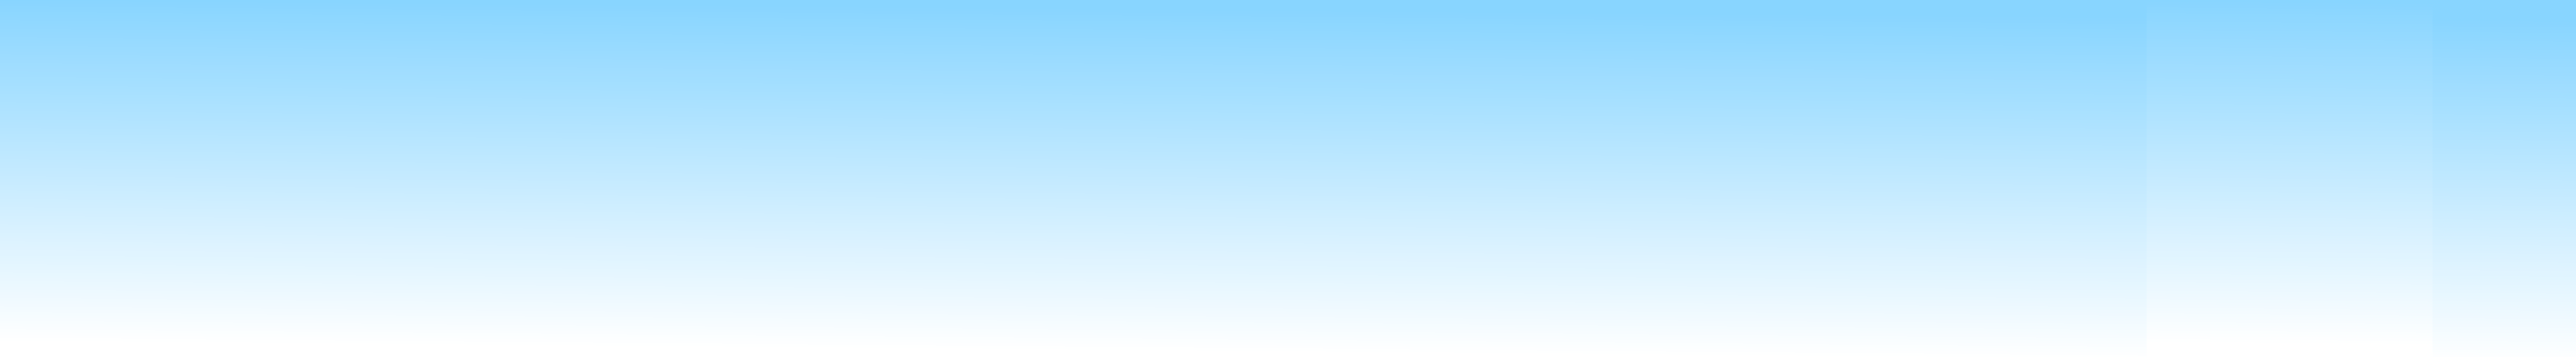
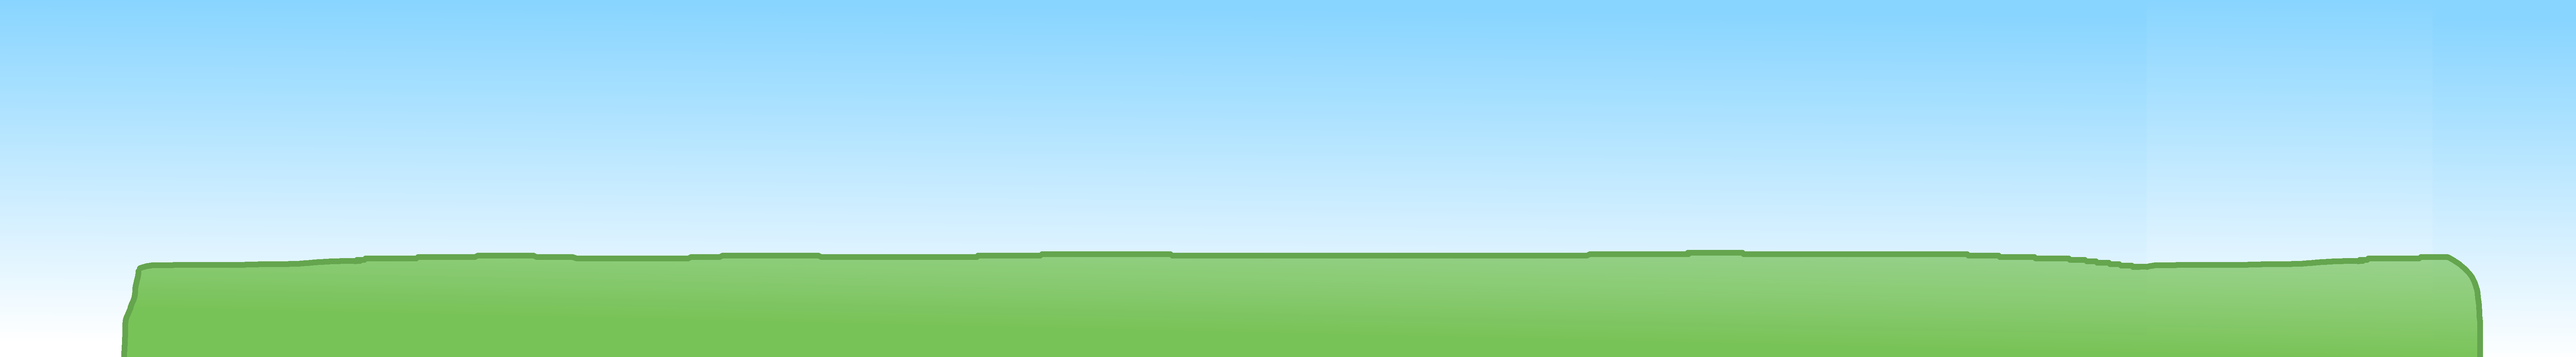
Bg prototype, will be changed

Changed region(s): [[0.0312, 0.682, 0.9688, 1.0]]

diff --git a/minigames/anti-air-turret/antiair.js b/minigames/anti-air-turret/antiair.js
@@ -641,7 +641,7 @@ function game_loop(timestamp) {
         clearInterval(score_updater_id);
         
         //Draw background
-        ctx.drawImage(background, camera.offset_x - background_width / 2, -camera.offset_y - canvasHeight/2, background_width, canvasHeight);
+        ctx.drawImage(background, camera.offset_x - background_width / 2, -camera.offset_y - background_height/4, background_width, background_height);
         //ctx.drawImage(background, camera.offset_x - background_width + canvasWidth/2, -camera.offset_y, background_width, canvasHeight);    
         //ctx.drawImage(background, camera.offset_x + canvasWidth/2, -camera.offset_y, background_width, canvasHeight);  
 
@@ -658,7 +658,7 @@ function game_loop(timestamp) {
     }
 
     //Draw background
-    ctx.drawImage(background, camera.offset_x - background_width / 2, -camera.offset_y - canvasHeight/2, background_width, canvasHeight);
+    ctx.drawImage(background, camera.offset_x - background_width / 2, -camera.offset_y - background_height/4, background_width, background_height);
     //ctx.drawImage(background, camera.offset_x + canvasWidth/2, -camera.offset_y, background_width, canvasHeight);  
 
     // Update camera angle based on player input
